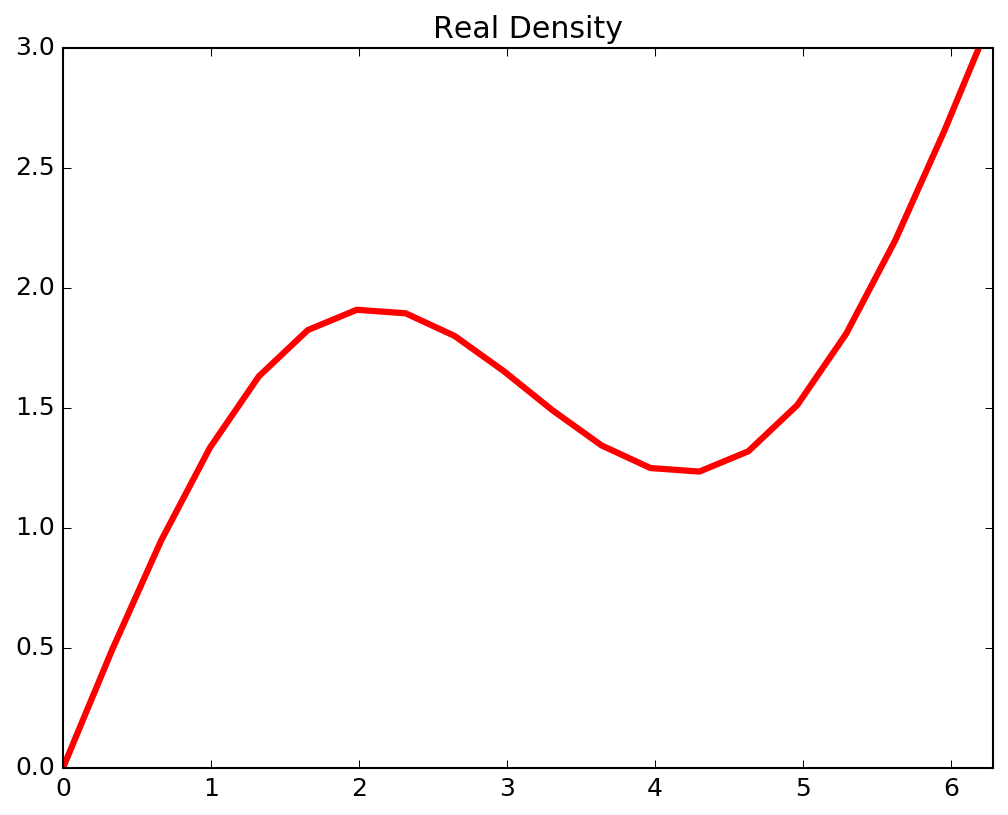
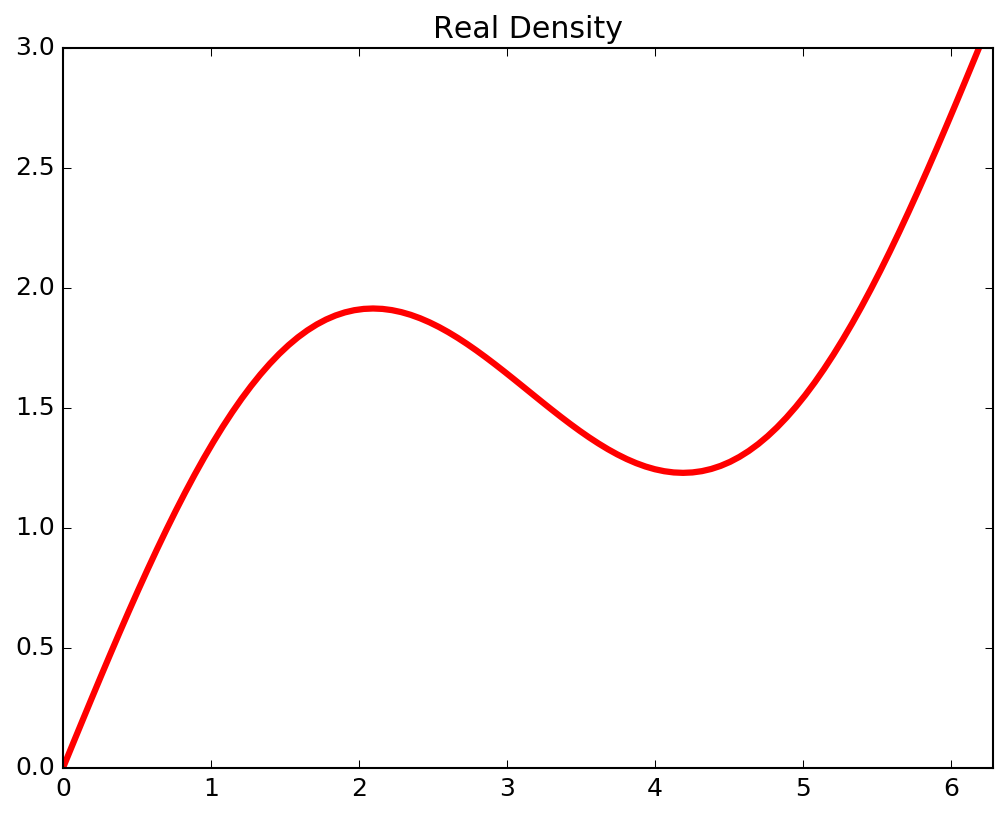
Cache the value of the empirical mean and linear system solution

diff --git a/gaussian_process/gp.py b/gaussian_process/gp.py
@@ -35,6 +35,9 @@ class GaussianProcess:
         self.cov_matrix = np.zeros((0, 0))
         self.noise = noise
 
+        self._sigma_inv_times_centered_y = None
+        self._mean_y = None
+
     @staticmethod
     def _center_data(list_y):
         """Center the list
@@ -113,6 +116,37 @@ class GaussianProcess:
         )
         self.list_observations = [obs for obs, y in list_observations_y]
         self.list_y = [y for obs, y in list_observations_y]
+
+    def _solve_linear_system(self):
+        """Solve the linear system to compute _sigma_inv_times_centered_y"""
+
+        # Solve the linear system
+        centered_list_y, mean = self._center_data(self.list_y)
+        y = np.linalg.solve(self.cov_matrix, centered_list_y)
+        # Assert the resolution of the linear system went well
+        assert np.allclose(np.array(centered_list_y), self.cov_matrix @ y)
+
+        return y, mean
+
+    def _update_mean_and_sigma_inv_times_centered_y(self):
+        """Update the empirical mean of list_y and solve the linear system
+
+        For improved speed, the solution of _sigma_inv_times_centered_y is
+        part of the class state. This is where it is update if it has not
+        been computed before, or if new observation has been added
+        """
+
+        if self._sigma_inv_times_centered_y is not None:
+            update_condition = (
+                len(self._sigma_inv_times_centered_y) != len(self.list_y)
+            )
+        else:
+            update_condition = self._mean_y is None
+
+        if update_condition:
+            y, mean = self._solve_linear_system()
+            self._sigma_inv_times_centered_y = y
+            self._mean_y = mean
 
     def add_observation(self, x, y):
         """Add an observation
@@ -194,13 +228,9 @@ class GaussianProcess:
 
         # Compute the correlation between the parameter x and the observation
         current_cov = cov_function(x, self.list_observations)
-        # Solve the linear system
-        centered_list_y, mean = self._center_data(self.list_y)
-        y = np.linalg.solve(self.cov_matrix, centered_list_y)
-        # Assert the resolution of the linear system went well
-        assert np.allclose(np.array(centered_list_y), self.cov_matrix @ y)
+        self._update_mean_and_sigma_inv_times_centered_y()
 
-        return mean + current_cov @ y
+        return self._mean_y + current_cov @ self._sigma_inv_times_centered_y
 
     def sample(self, x):
         """Sample a Gaussian process on x

diff --git a/script/example_1d.py b/script/example_1d.py
@@ -32,7 +32,7 @@ def example_interpolation(xmin, xmax, ymin, ymax,
     gp.covariance_matrix()
 
     # Plot the interpolation
-    x_vec = np.linspace(xmin, xmax, 50)
+    x_vec = np.linspace(xmin, xmax, 200)
     x_vec = [(x,) for x in x_vec]
     gp.plot(list_x=x_vec, ymin=ymin, ymax=ymax, confidence_band=False)
     plt.savefig(title, dpi=150, bbox_inches='tight')
@@ -89,14 +89,14 @@ def main():
 
     np.random.seed(0)
     example_interpolation(
-        xmin, xmax, ymin, ymax, 0.5, 0.3, 'figures/small_covariance'
+        xmin, xmax, ymin, ymax, 0.2, 0.2, 'figures/small_covariance'
     )
     np.random.seed(0)
     example_interpolation(
-        xmin, xmax, ymin, ymax, 0.5, 0.5, 'figures/large_covariance'
+        xmin, xmax, ymin, ymax, 0.2, 0.5, 'figures/large_covariance'
     )
 
-    plot_density(xmin, xmax, ymin, ymax, 20)
+    plot_density(xmin, xmax, ymin, ymax, 100)
     np.random.seed(0)
     list_observations, list_y = get_observations(xmin, xmax, 10)
 
@@ -120,7 +120,7 @@ def main():
 
     # Plot the interpolation
     logger.info('Plot the interpolation')
-    x_vec = np.linspace(xmin, xmax, 50)
+    x_vec = np.linspace(xmin, xmax, 100)
     x_vec = [(x,) for x in x_vec]
     gp.plot(list_x=x_vec, ymin=ymin, ymax=ymax, n_samples=0)
     plt.savefig('figures/1d_estimation.png', dpi=150, bbox_inches='tight')

diff --git a/README.md b/README.md
@@ -39,7 +39,7 @@ We use a Gaussian process with the squared exponential covariance function:
 `cov(x, y) = w0 exp(-1/2*(x-y)^2/w1^2)`
 
 The parameter `w1` corresponds to the correlation between the data point: the larger it is, the larger the point are assumed correlated.
-Here is an example of the Gaussian process interpolation using 10 random data points and `w1 = 0.3`:
+Here is an example of the Gaussian process interpolation using 10 random data points and `w1 = 0.2`:
 
 <img src="https://github.com/matthieule/gaussian_process_regression/blob/master/figures/small_covariance.png" alt="alt text" width=500px>
 
